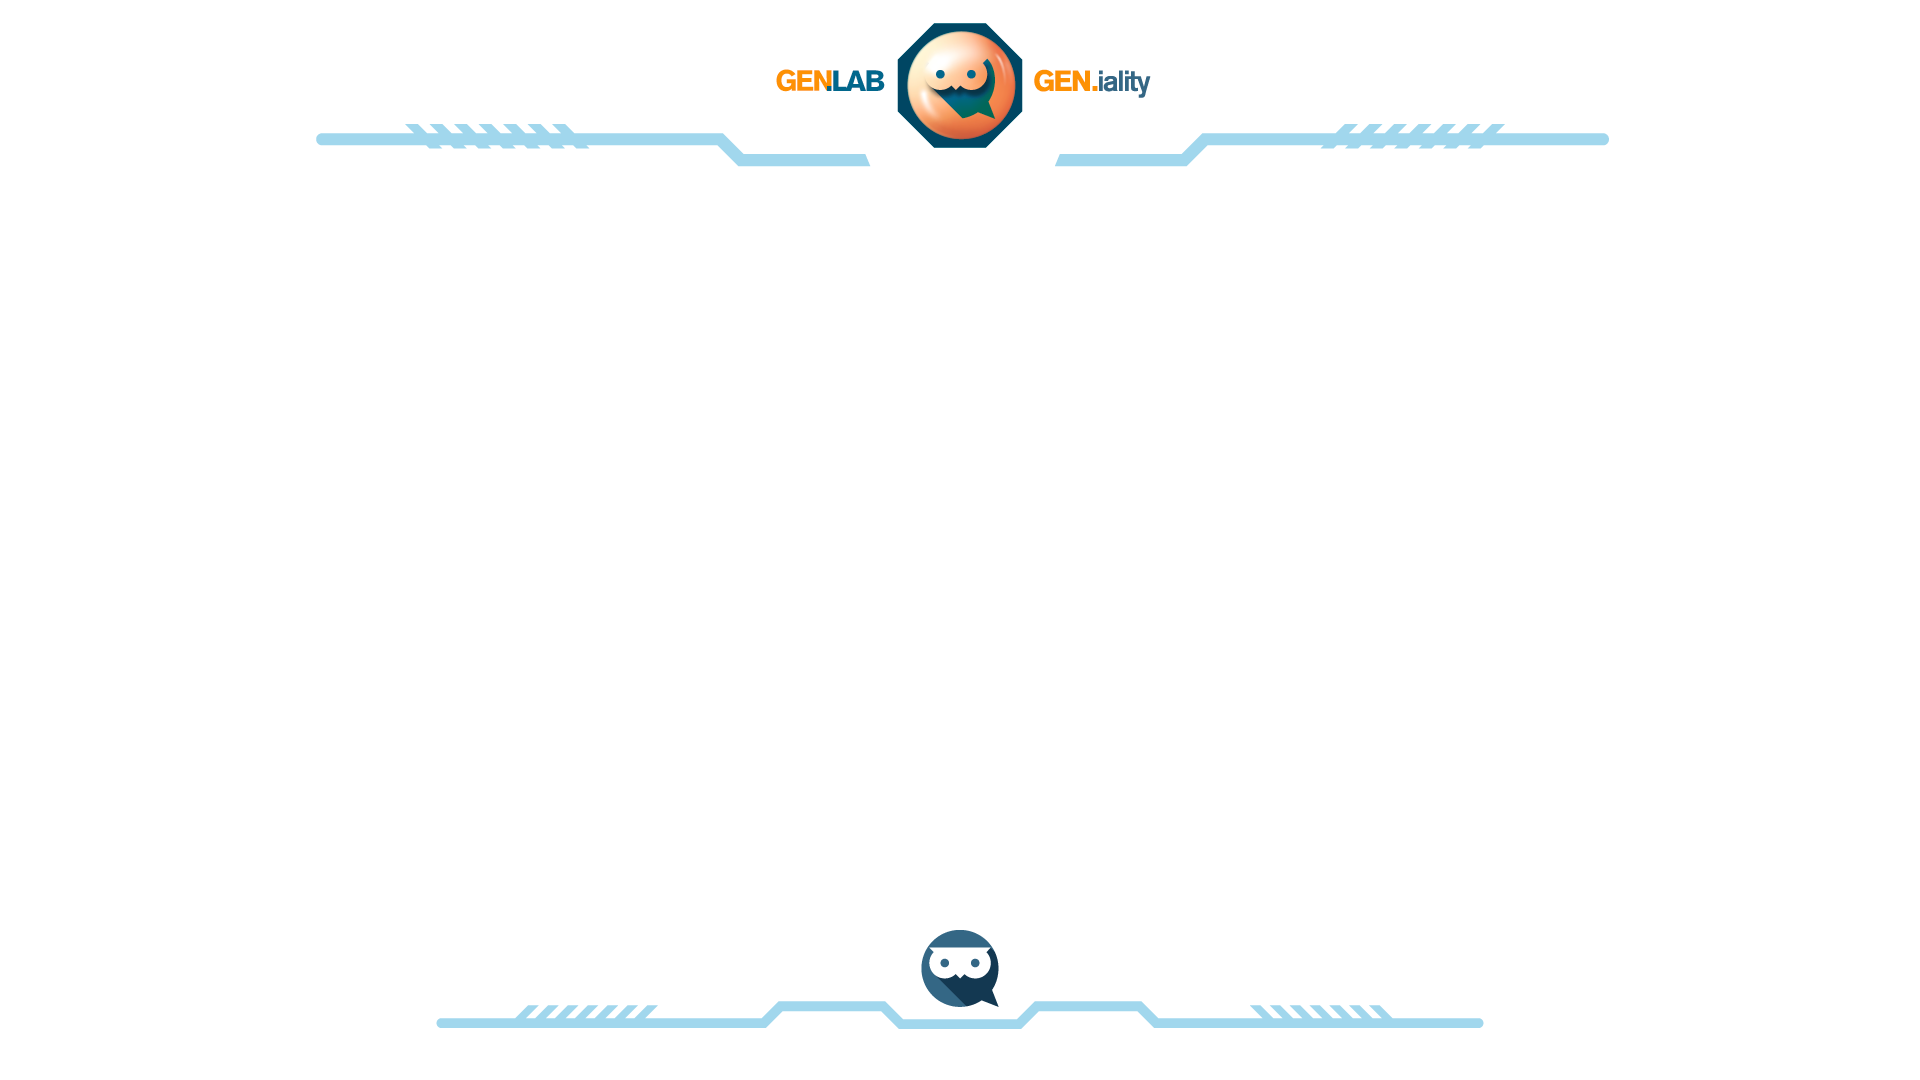
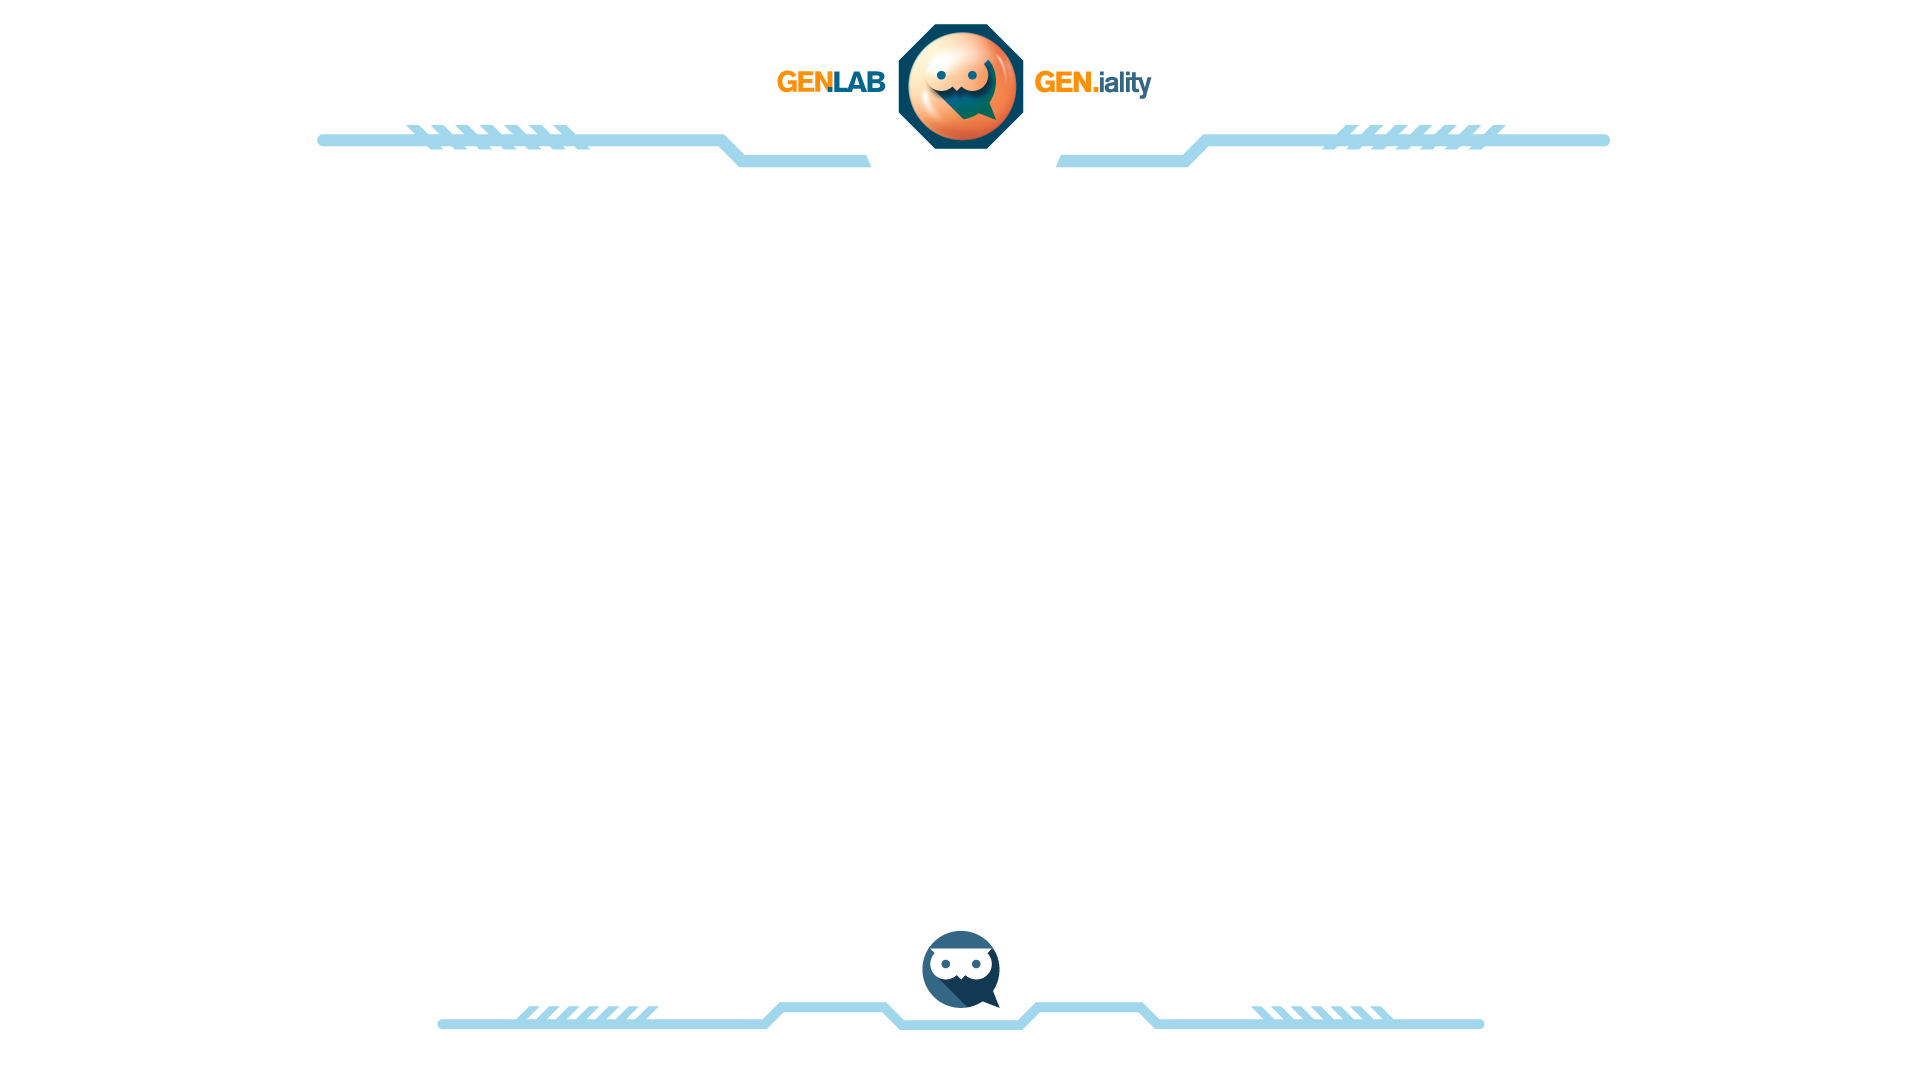
ajusta marco movil

Changed region(s): [[0.4062, 0.0306, 0.5938, 0.1222]]

diff --git a/src/scenes/Scene2.ts b/src/scenes/Scene2.ts
@@ -13,11 +13,23 @@ const ballImage = new Image();
 ballImage.src = "/PELOTA.png";
 
 const frameImage = new Image();
-frameImage.src = "/MARCO-EXPERIENCIAS.png";
+const largeFrameSrc = "/MARCO-EXPERIENCIAS.png"; 
+const smallFrameSrc = "/MARCO-EXPERIENCIAS-MOVIL.png";
 
 const explosionSound = new Audio("/bass-drop-186085.mp3");
 
 let scoreAnimations = [];
+
+function updateFrameImage() {
+  if (window.innerWidth <= 768) {
+    frameImage.src = smallFrameSrc;
+  } else {
+    frameImage.src = largeFrameSrc;
+  }
+}
+
+updateFrameImage();
+window.addEventListener("resize", updateFrameImage);
 
 export async function initScene(video) {
   const loadingElement = document.createElement("div");
@@ -198,7 +210,7 @@ export async function initScene(video) {
   function checkInteractions(landmarks) {
     // Índices de los puntos relevantes para las manos
     const handLandmarksIndices = [
-      11, 13, 15, 17, 19, 21, 12, 14, 16, 18, 20, 22,
+      15, 17, 19, 21, 16, 18, 20, 22,
     ];
 
     handLandmarksIndices.forEach((index) => {
